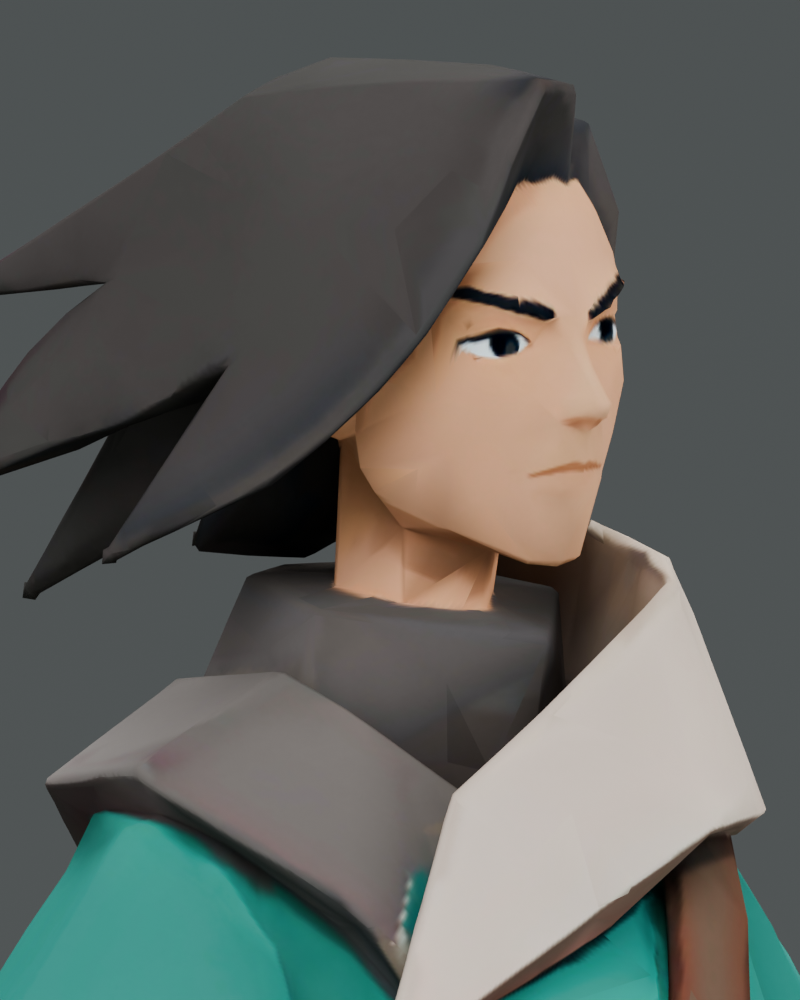
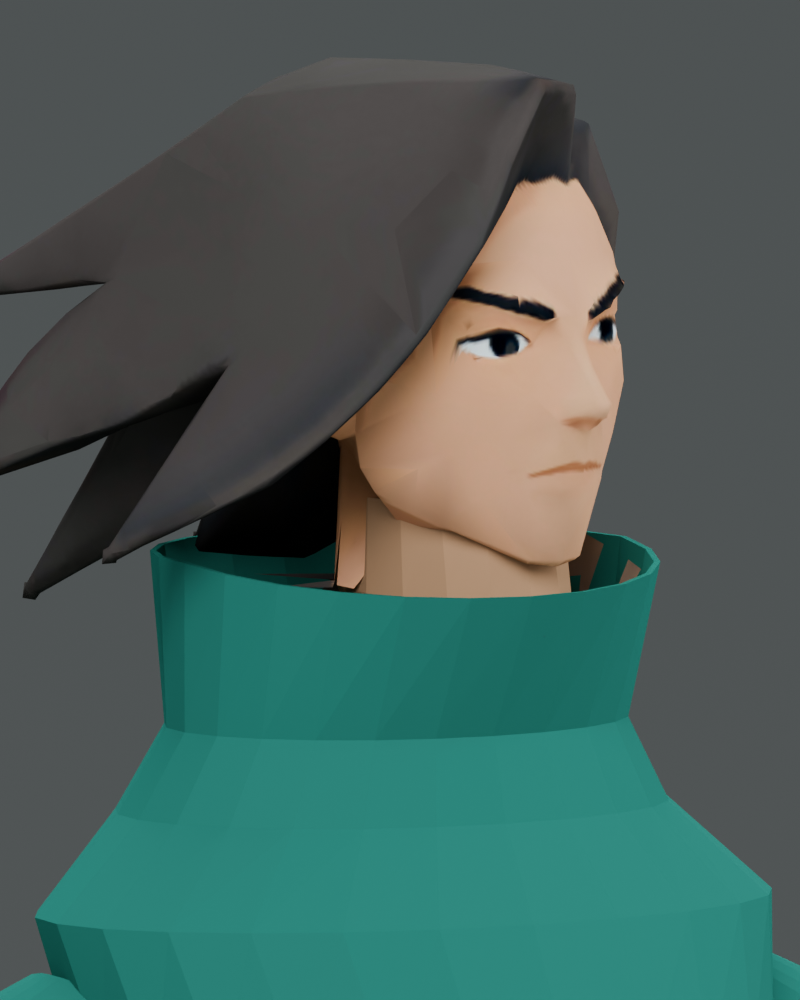
Simplify Miki to a high-collar dress and fix garment motion

diff --git a/blender/studies/miki-fullbody-fit/refresh-dress.py b/blender/studies/miki-fullbody-fit/refresh-dress.py
@@ -1,0 +1,112 @@
+"""Reusable, asset-local dress motion fitting; no changes to body Actions or canonical source."""
+import bpy,json,hashlib,sys
+from pathlib import Path
+from mathutils import Matrix,Vector
+sys.path.insert(0,str(Path(__file__).parent))
+from dress_clearance import clear_dress
+
+def evaluated(obj,selected_polygons):
+ e=obj.evaluated_get(bpy.context.evaluated_depsgraph_get());me=e.to_mesh();me.calc_loop_triangles();points=[e.matrix_world@v.co for v in me.vertices];triangles=[tuple(t.vertices)for t in me.loop_triangles if t.polygon_index in selected_polygons];e.to_mesh_clear();return points,triangles
+
+def refresh_coat(rig,coat,lining,colliders,clip_frames):
+ """Regenerate matching local KeyActions from unchanged body motion.
+
+ colliders is [(Object, polygon-index list)] of true pants/underlayers. Existing
+ core Actions/rest/meshes remain immutable. The clean dress is pelvis-rigid;
+ field corrections are source-bind-space deltas copied by outer_vertex_index.
+ """
+ assert len(rig.data.bones)==17 and rig.library is None,'Use the local seventeen-bone fitted study rig'
+ for obj in [coat,lining]:
+  assert obj.library is None and max(abs(obj.matrix_world[i][j]-(1. if i==j else 0.))for i in range(4)for j in range(4))<1e-6,'Refresh the source actor, not a transformed review instance'
+  assert all(len(v.groups)==1 and obj.vertex_groups[v.groups[0].group].name=='pelvis'and abs(v.groups[0].weight-1.)<1e-6 for v in obj.data.vertices),'The clean dress field assumes pelvis-rigid skin'
+ assert 'outer_vertex_index'in lining.data.attributes and all(0<=a.value<len(coat.data.vertices)for a in lining.data.attributes['outer_vertex_index'].data)
+ saved_basis={p.name:p.matrix_basis.copy()for p in rig.pose.bones};saved_pose=rig.data.pose_position;saved_mutes=[(t,t.mute)for t in rig.animation_data.nla_tracks]if rig.animation_data else[]
+ for track,mute in saved_mutes:track.mute=True
+ rig.data.pose_position='POSE'
+ scene=bpy.context.scene;saved_action=rig.animation_data.action if rig.animation_data else None;saved_slot=rig.animation_data.action_slot if rig.animation_data else None;saved_frame=scene.frame_current;saved_sub=scene.frame_subframe
+ rig.animation_data_create();rest=[v.co.copy()for v in coat.data.vertices];faces=[tuple(f.vertices)for f in coat.data.polygons]
+ for obj in [coat,lining]:obj.shape_key_clear();obj.shape_key_add(name='Basis')
+ for action in list(bpy.data.actions):
+  if action.name.startswith('miki.coat.corrective.')or action.name.startswith('miki.coat_lining.corrective.'):bpy.data.actions.remove(action)
+ fitted={};report={'method':'Clean open dress; fixed radial nonnegative field with face/edge/vertex constraints against retained pants and lean closed underlayers. No nearest normals or bag constraints.','clips':{},'key_action_map':{}}
+ for clip,frames in clip_frames.items():
+  action=bpy.data.actions['miki.fitted.'+clip];rig.animation_data.action=action;rig.animation_data.action_slot=action.slots[0];clip_offsets=[];rows=[]
+  for frame in frames:
+   scene.frame_set(int(frame),subframe=frame-int(frame));bpy.context.view_layer.update()
+   P=rig.matrix_world@rig.pose.bones['pelvis'].matrix@rig.data.bones['pelvis'].matrix_local.inverted();Pi=P.inverted();body_points=[];body_faces=[]
+   for obj,indices in colliders:
+    off=len(body_points);evaluated_points,evaluated_faces=evaluated(obj,set(indices));body_points.extend(Pi@p for p in evaluated_points);body_faces.extend([[v+off for v in face]for face in evaluated_faces])
+   points,offsets,stats=clear_dress(rest,faces,body_points,body_faces);clip_offsets.append([p-r for p,r in zip(points,rest)]);rows.append({'frame':frame,**stats})
+   print('DRESS_POSE',clip,frame,stats['max_offset_m'],len(stats['iterations']),flush=True)
+  # Positive envelope over adjacent dense samples; fixed directions make this conservative.
+  if len(frames)>10:
+   period=len(frames)-1
+   direction=[Vector((p.x,p.y-.025,0)).normalized()for p in rest]
+   magnitude=[[delta.dot(d)for delta,d in zip(row,direction)]for row in clip_offsets]
+   clip_offsets=[[direction[i]*max(magnitude[(j-1)%period][i],magnitude[j%period][i],magnitude[(j+1)%period][i])for i in range(len(rest))]for j in range(len(frames))]
+  fitted[clip]=[]
+  for index,(frame,deltas)in enumerate(zip(frames,clip_offsets)):
+   label=f'coat.{clip}.{index:03d}';outer=coat.shape_key_add(name=label);inner=lining.shape_key_add(name=label)
+   for i,p in enumerate(rest):outer.data[i].co=p+deltas[i]
+   for i,ref in enumerate(lining.data.attributes['outer_vertex_index'].data):inner.data[i].co=lining.data.shape_keys.key_blocks['Basis'].data[i].co+deltas[ref.value]
+   fitted[clip].append((frame,label))
+  report['clips'][clip]=rows
+ for clip,rows in fitted.items():
+  first,last=rows[0][0],rows[-1][0];keyframe={label:(j,frame)for j,(frame,label)in enumerate(rows)}
+  for obj in [coat,lining]:
+   kd=obj.data.shape_keys;kd.animation_data_create();action=bpy.data.actions.new(f'miki.{obj.get("semantic_part")}.corrective.{clip}');action.use_fake_user=True;kd.animation_data.action=action
+   for key in kd.key_blocks:
+    if key.name=='Basis':continue
+    if key.name in keyframe:
+     index,frame=keyframe[key.name];prev=rows[max(0,index-1)][0];nxt=rows[min(len(rows)-1,index+1)][0]
+     for time in sorted({first,prev,frame,nxt,last}):key.value=1. if time==frame else 0.;key.keyframe_insert('value',frame=time,group=clip)
+    else:
+     for time in [first,last]:key.value=0.;key.keyframe_insert('value',frame=time,group='Reset other clips')
+   for layer in action.layers:
+    for strip in layer.strips:
+     for bag in strip.channelbags:
+      for curve in bag.fcurves:
+       for key in curve.keyframe_points:key.interpolation='LINEAR'
+   report['key_action_map'].setdefault(clip,{})[obj.get('semantic_part')]=action.name
+   kd.animation_data.action=None;kd.use_fake_user=True
+   for key in kd.key_blocks:key.value=0.
+ rig.animation_data.action=saved_action
+ if saved_action and saved_slot:rig.animation_data.action_slot=saved_slot
+ for name,matrix in saved_basis.items():rig.pose.bones[name].matrix_basis=matrix
+ for track,mute in saved_mutes:track.mute=mute
+ rig.data.pose_position=saved_pose;scene.frame_set(saved_frame,subframe=saved_sub);bpy.context.view_layer.update()
+ return report
+
+def main():
+ """Regenerate only this unregistered study, never a canonical character/library."""
+ folder=Path(__file__).resolve().parent;expected=folder/'character/miki-fullbody-fit.blend'
+ if Path(bpy.data.filepath).resolve()!=expected:
+  raise ValueError('Open this study character source before refreshing the dress')
+ scene=bpy.context.scene;rigs=[o for o in scene.objects if o.type=='ARMATURE']
+ if len(rigs)!=1 or len(rigs[0].data.bones)!=17:raise ValueError('Expected one fitted 17-bone actor')
+ rig=rigs[0];shared=folder.parents[2]/'blender/animations/party.blend'
+ if rig.get('motion_source_sha256')!=hashlib.sha256(shared.read_bytes()).hexdigest():
+  raise ValueError('Shared body motion changed; refit and review body clips before regenerating dress motion')
+ parts={o.get('semantic_part'):o for o in scene.objects if o.type=='MESH'}
+ legs={'thigh.L','thigh.R','shin.L','shin.R','foot.L','foot.R'};colliders=[]
+ for role in ['body','upper_leggings']:
+  obj=parts[role];leg=[sum(g.weight for g in v.groups if obj.vertex_groups[g.group].name in legs)for v in obj.data.vertices]
+  indices=[f.index for f in obj.data.polygons if role=='upper_leggings' or sum(leg[i]for i in f.vertices)/len(f.vertices)>.5]
+  colliders.append((obj,indices))
+ frames={clip:list(range(1,int(bpy.data.actions['miki.fitted.'+clip].frame_range[1])+1))for clip in ['run','sneak','fire']}
+ report=refresh_coat(rig,parts['coat'],parts['coat_lining'],colliders,frames)
+ rig['garment_correctives']=json.dumps(report);rig.animation_data_clear()
+ for pb in rig.pose.bones:pb.matrix_basis=Matrix.Identity(4)
+ scene.frame_set(0)
+ bpy.context.preferences.filepaths.save_version=0
+ import sys
+ sys.path.insert(0, str(folder.parents[1] / 'extensions'))
+ from lauder_levels import forget_local_paths
+ for scene in bpy.data.scenes:
+     scene.render.filepath = ' ' * 1023
+     scene.render.filepath = '//'
+ forget_local_paths(expected)
+ bpy.ops.wm.save_as_mainfile(filepath=str(expected),relative_remap=False,compress=True)
+
+if __name__=='__main__':
+ main()

diff --git a/blender/studies/miki-fullbody-fit/dress_clearance.py b/blender/studies/miki-fullbody-fit/dress_clearance.py
@@ -1,0 +1,84 @@
+"""Directional authoring constraints for the clean dress, with no nearest-normal projection."""
+from mathutils import Vector
+from mathutils.bvhtree import BVHTree
+from mathutils.geometry import intersect_ray_tri
+SAMPLES=tuple((i/4,j/4,(4-i-j)/4)for i in range(5)for j in range(5-i))
+
+def smooth(a,b,x):
+ t=max(0.,min(1.,(x-a)/(b-a)));return t*t*(3-2*t)
+
+def barycentric(point,tri):
+ a,b,c=tri;v0=b-a;v1=c-a;v2=point-a;aa=v0.dot(v0);bb=v0.dot(v1);cc=v1.dot(v1);dd=v2.dot(v0);ee=v2.dot(v1);den=aa*cc-bb*bb
+ if abs(den)<1e-14:return None
+ v=(cc*dd-bb*ee)/den;w=(aa*ee-bb*dd)/den;return(1-v-w,v,w)
+
+def triangle_witnesses(cloth,body):
+ """Strict finite edge/triangle crossings, expressed on the garment triangle."""
+ points=[]
+ for edges,target in [(body,cloth),(cloth,body)]:
+  normal=(target[1]-target[0]).cross(target[2]-target[0]);length=normal.length
+  if length<1e-12:continue
+  normal/=length
+  for i,origin in enumerate(edges):
+   end=edges[(i+1)%3];ray=end-origin;length=ray.length
+   if length<1e-8:continue
+   d0=(origin-target[0]).dot(normal);d1=(end-target[0]).dot(normal)
+   if d0*d1>=0 or min(abs(d0),abs(d1))<1e-6:continue
+   direction=ray/length;hit=intersect_ray_tri(*target,direction,origin,True)
+   if hit is None or not 1e-6<(hit-origin).dot(direction)<length-1e-6:continue
+   bc=barycentric(hit,cloth)
+   if bc and min(bc)>-1e-6:points.append(bc)
+ return points
+
+def clear_dress(points,triangles,body_points,body_faces,margin=.010,iterations=8):
+ """Conservative fixed-outward offset with vertex, edge and face constraints.
+
+ Every source point retains its Z, its fixed pelvis-frame radial direction and
+ original radial separation. Local offsets spread coherently over the panel.
+ The top facing is an intentional dress/torso overlap; sample Z >= .98 is not
+ treated as a leg constraint. Returned points remain in pelvis/bind space.
+ """
+ assert all(len(f)==3 for f in triangles)and all(len(f)==3 for f in body_faces),'Pass actual evaluated triangles'
+ base=[Vector(p)for p in points];directions=[];masks=[]
+ for p in base:
+  d=Vector((p.x,p.y-.025,0));d.normalize();directions.append(d);masks.append(1-smooth(.97,1.04,p.z))
+ graph=[{}for p in base]
+ for face in triangles:
+  for a,b in zip(face,(face[1],face[2],face[0])):
+   length=(base[a]-base[b]).length;graph[a][b]=length;graph[b][a]=length
+ tree=BVHTree.FromPolygons([Vector(v)for v in body_points],body_faces)
+ offset=[0.]*len(base);history=[]
+ for step in range(iterations):
+  posed=[p+d*o for p,d,o in zip(base,directions,offset)];wanted=offset[:];max_need=0.;constraints=0
+  garment_tree=BVHTree.FromPolygons(posed,triangles,all_triangles=True);extra={};witness_pairs=0
+  for ci,bi in garment_tree.overlap(tree):
+   cloth=[posed[i]for i in triangles[ci]];body=[Vector(body_points[i])for i in body_faces[bi]];witness=triangle_witnesses(cloth,body)
+   if witness:extra.setdefault(ci,[]).extend(witness);witness_pairs+=1
+  for fi,face in enumerate(triangles):
+   samples=list(SAMPLES)+extra.get(fi,[])
+   for sample_index,weights in enumerate(samples):
+    p=sum((posed[i]*w for i,w in zip(face,weights)),Vector())
+    if p.z>=.98:continue
+    d=sum((directions[i]*w for i,w in zip(face,weights)),Vector());d.normalize()
+    denom=sum(w*masks[i]*directions[i].dot(d)for i,w in zip(face,weights))
+    if denom<.05:continue
+    # Four millimetres of directional footprint expansion protects unsampled skin facets.
+    side=Vector((-d.y,d.x,0));need=0.
+    for sx,sz in [(0,0),(-.004,0),(.004,0),(0,-.004),(0,.004)]:
+     q=p+side*sx+Vector((0,0,sz));hit,normal,idx,distance=tree.ray_cast(q+d*2.,-d,4.)
+     if hit is not None:need=max(need,(hit-q).dot(d)+margin)
+    if sample_index>=len(SAMPLES):need=max(need,.005)
+    if need<=.00025:continue
+    constraints+=1;max_need=max(max_need,need)
+    for i in face:wanted[i]=max(wanted[i],offset[i]+need/denom*masks[i])
+  # A shared Lipschitz offset rounds the skirt coherently instead of moving isolated points.
+  for spread in range(5):
+   expanded=wanted[:]
+   for i,neighbours in enumerate(graph):
+    if masks[i]<.001:continue
+    expanded[i]=max(wanted[i],max((wanted[j]-.8*l for j,l in neighbours.items()),default=0.)*masks[i])
+   wanted=expanded
+  offset=wanted;history.append({'iteration':step,'constraint_count':constraints,'max_required_m':max_need,'max_offset_m':max(offset),'strict_witness_pairs':witness_pairs})
+  if max_need<.0005 and witness_pairs==0:break
+ result=[p+d*o for p,d,o in zip(base,directions,offset)]
+ return result,offset,{'iterations':history,'max_offset_m':max(offset),'fixed_direction':True,'waist_overlap_z':.98,'margin_m':margin}

diff --git a/blender/studies/miki-fullbody-fit/refresh-motions.py b/blender/studies/miki-fullbody-fit/refresh-motions.py
@@ -243,7 +243,14 @@ def main():
         pb.scale = (1, 1, 1)
     bpy.context.scene.frame_set(0)
     bpy.data.orphans_purge(do_recursive=True)
-    bpy.ops.wm.save_as_mainfile(filepath=str(expected), relative_remap=False)
+    import sys
+    sys.path.insert(0, str(folder.parents[1] / 'extensions'))
+    from lauder_levels import forget_local_paths
+    for scene in bpy.data.scenes:
+        scene.render.filepath = ' ' * 1023
+        scene.render.filepath = '//'
+    forget_local_paths(expected)
+    bpy.ops.wm.save_as_mainfile(filepath=str(expected), relative_remap=False, compress=True)
 
 if __name__ == '__main__':
     main()

diff --git a/blender/studies/miki-fullbody-fit/README.md b/blender/studies/miki-fullbody-fit/README.md
@@ -1,85 +1,72 @@
-# Miki full-body fitting study
+# Miki simple dress and motion study
 
-**Work-in-progress motion review, 25 November 2026.** The maintainer accepted the coherent full-body approach as Miki's working visual base and assigned simplification, detail refinement and reuse of the existing skeleton and animations. This separate authoring study awaits final motion/appearance review. Canonical characters, shared motion, gameplay and app resources remain unchanged.
-
-
+**Updated authoring review, 25 November 2026.** The maintainer asked: “I think we should simplify and remove the side bag and the belts so only have the dress with a high colar.” This candidate follows that direction with a simple teal dress and integral standing collar. The bag, crossbody/waist belts, rear strap and folded scarf are removed from the current outfit. Original references, raw assets and history remain preserved. Canonical characters, shared motion, gameplay and app resources are unchanged.
 
 ## Review in Blender
 
-Open [miki-fullbody-fit-review.blend](miki-fullbody-fit-review.blend), keeping `character` beside it and the existing [Precision rifle source](../equipment/rifle-precision/README.md). Relative libraries supply both assets. **01 Run Sneak Shoot** presents the motion sequence; **02 Rest and details** supplies static inspection. The review has five orthographic body views, a face camera and a motion camera. The editable source is [character/miki-fullbody-fit.blend](character/miki-fullbody-fit.blend), collection `miki-fullbody-fit`.
+Open [miki-fullbody-fit-review.blend](miki-fullbody-fit-review.blend) with `character` beside it. Its animated and static scenes use **one relative character library only**: the editable [character/miki-fullbody-fit.blend](character/miki-fullbody-fit.blend), collection `miki-fullbody-fit`. No equipment is displayed or linked into this review.
 
-![Actual native Blender view](three-quarter.png)
+![Native Blender three-quarter view](three-quarter.png)
 
-[Front](front.png) · [Back](back.png) · [Face](face.png)
+[Front](front.png) · [Back](back.png) · [Face](face.png) · [Motion reel](motion-preview.mp4)
 
-The images and [motion reel](motion-preview.mp4) are native Blender renders of the saved candidate, with no AI image replacement or retouching. The earlier [Tripo review](../miki-fullbody-tripo/README.md) remains an unchanged comparison. The editorial sequence uses 120 fps:
+The images and reel are native Blender renders of the frozen candidate, not AI replacements or retouched previews. The animated scene presents two editorial takes at 120 fps; the other scene remains independently unposed for inspection.
 
-| Take | Frames | Repetitions |
+| Take | Source timeline | Repetitions |
 | --- | --- | ---: |
 | Run | 1–312 | 4 |
 | Sneak | 313–744 | 3 |
-| Fire | 745–1104 | 5 |
 
-The sequence lasts **9.2 seconds**. The 960 × 900 H.264 reel encodes 276 native frames at 30 fps, sampling every fourth source frame. Editorial cuts separate the clips; this does not demonstrate gameplay blending.
+The **6.2-second**, **960 × 900** H.264 reel contains **186 frames at 30 fps**, sampling every fourth source frame. These editorial cuts demonstrate the selected clips, not gameplay transitions. All eleven fitted body clips remain in the authoring source; Fire is not displayed in this review.
 
-## Geometry, colour and equipment
+## Outfit, geometry and colour
 
-A UV-preserving reduction takes the [1,931,766-triangle Tripo draft](../miki-fullbody-tripo/README.md#source-and-settings) to a **12,000-triangle core** with 5,998 unique source vertices. Semantic splitting duplicates seam vertices across objects. The saved candidate totals **8,103 vertices / 14,846 triangles**, including the auxiliary pieces below; garment correctives preserve topology. The topology is a simplified triangulated generator mesh; dedicated deformation retopology and iPhone performance are unestablished.
+The accepted [Tripo full-body base](../miki-fullbody-tripo/README.md) began at 1,931,766 triangles and was reduced to a UV-preserving 12,000-triangle core. This outfit revision deliberately replaces obsolete clothing surfaces with clean native topology; the retained original surface and the new clothing are recorded separately. The lower dress is a clean open wrap with a practical high-low front hem and a longer side/back tail. It is not the old fused coat/leg-return mesh.
 
-The bounded detail pass changes **159 source vertices**, at most approximately **1.992 mm**, around the jaw/mouth/adjacent neck. All semantic copies of an edited source vertex receive its same delta. The accepted swept-hair silhouette remains. Darker irises and the **558-vertex glove palette region** are baked through native Blender emission into one [1,024² base-colour atlas](character/textures/miki-basecolour-1k.png). UV-bearing parts share a simple matte material; auxiliary pieces use plain colours. The gloves retain their original thumb gaps and fused-finger topology, with no finger articulation. Normal and roughness/metallic maps are removed from this derivative.
+The upper dress joins a tailored bodice directly into a hollow high collar, with no raised belt ring. A small neck infill fills the source void formerly hidden by the scarf; two clean sleeve roots join the retained lower sleeves. The waist overlaps the lower dress internally. The formerly hidden hip bridge and jagged closure fans are retired. One connected matte-charcoal upper-leggings surface joins the retained pants at 61 exact seam points around 0.62 m; boots and lower legs remain.
 
-| Additional piece | Vertices | Triangles |
+| New upper component | Vertices | Triangles |
 | --- | ---: | ---: |
-| Bounded coat inner shell | 1,094 | 2,009 |
-| Hidden cut-boundary caps | 183 | 177 |
-| Hidden hip/thigh bridge | 142 | 272 |
-| Rear shoulder strap | 196 | 388 |
+| Bodice and integral high collar | 264 | 480 |
+| Neck continuity infill | 48 | 92 |
+| Clean sleeve roots | 165 | 271 |
+| Continuous visible upper leggings | 517 | 1,030 |
 
-The closed caps seal seven original cut cycles. The hip/thigh bridge uses closed overlapping opaque lofts beneath the coat, with narrower hidden lower overlaps inside the retained pants. The back strap continues the satchel's front strap. These additions have their own provenance; their source IDs are distinct from original visible faces.
+Retained face/hair, glove, boot and pants vertices keep their source positions, weights and UVs. **62 neutral-cream scarf triangles previously classified into the head object are removed**; this is clothing cleanup, so the entire old head topology is not claimed unchanged. No jaw, face or hair redesign accompanies this revision. Retained pants receive a uniform charcoal material, with their UVs preserved. The gloves keep their fused-finger topology, without finger articulation.
 
-The **280-triangle Precision rifle stays independent and linked**. The review owns carry/hold transforms; neither rifle nor tablet is part of the character mesh. Fire is a fitted low-ready review, with scoped aiming, draw/stow transitions and runtime weapon attachment remaining separate work.
+One new **1,024² base-colour atlas** is baked natively from the cleaned body and head together, retaining their original UV charts and face/hair colours. Plain matte materials cover the new dress, closures and neck infill. No normal or roughness/metallic maps are required. Source images are not overwritten. Equipment remains independent: the [Precision rifle study](../equipment/rifle-precision/README.md) and other equipment are unchanged and excluded from these two takes.
 
-## Shared skeleton, derived motion and garment correctives
+**Frozen actor totals:** 4,669 vertices / 8,821 triangles, across eight meshes, including lining and visible leggings. This remains simplified generator topology plus bounded native clothing work, not production deformation retopology or an established iPhone budget.
 
-The study keeps **17 fitted body bones**, preserving shared names and hierarchy while adapting rest positions to Miki's proportions. The canonical [skeleton and eleven `party.*` Actions](../../animations/README.md) remain immutable. Eleven local `miki.fitted.*` body Actions regenerate from them through rest-space rotation mapping, sole-contact correction and fitted palm targets; the source opens unposed at frame 0 and preserves those reusable Actions.
+## Shared skeleton, motion and regeneration
 
-The garment uses **83 corrective shape keys per part plus Basis**: 27 Run, 49 Sneak and seven Fire samples. Six local Key Actions pair the three clips with the outer coat and its lining. The experimental 18-bone pilot was rejected; it is not included. The animated review owns local mesh/Key-data copies and matching body/corrective NLA tracks; the static review owns its rest configuration. All channels are explicit, including zero values for other clips, to prevent stale shapes when switching Actions. Shared-source changes require reauthoring/rechecking the correctives; the helper checks the shared source SHA before a refresh so a body refresh cannot silently invalidate them.
+The actor keeps **17 fitted body bones** with the existing names and hierarchy. The canonical [shared skeleton and eleven `party.*` Actions](../../animations/README.md) remain immutable. The eleven local `miki.fitted.*` Actions preserve the fitted rest-space mapping, sole-contact correction and palm-target work; outfit cleanup changes none of those body curves. The source opens unposed at frame 0.
 
-[refresh-motions.py](refresh-motions.py) exposes `refresh_target(rig, body_objects, source_library, fit)` and a CLI entry point restricted to this exact study source. Its fit metadata and source signature preserve lineage. From the repository root, the public helper is invoked with Blender:
+[refresh-motions.py](refresh-motions.py) refreshes only this study’s derived body motion and rejects a mismatched shared-source fingerprint. [refresh-dress.py](refresh-dress.py), using [dress_clearance.py](dress_clearance.py), regenerates this study’s coherent garment deformation from its frozen rest garment and fitted motion. Its inputs are the saved rest topology, skin weights/modes and fitted body clips. A change to any of those inputs invalidates prior garment samples and requires regeneration and native review; old independent coat correctives must not be reused silently.
 
-```sh
-/Applications/Blender.app/Contents/MacOS/Blender --background --factory-startup -Y \
-  blender/studies/miki-fullbody-fit/character/miki-fullbody-fit.blend \
-  --python-exit-code 1 --python blender/studies/miki-fullbody-fit/refresh-motions.py
-```
+The animated review owns local evaluated garment/Key data paired with its body motion; the static scene owns its rest configuration. Refreshing the authoring source requires rebuilding and rechecking the linked review and rendered reel. Neither helper saves the canonical party source. A full 297-frame regeneration reproduces 26 evaluated outer/lining pose samples exactly and leaves the eleven body curves and saved source unchanged. Both helpers reject a mismatched shared-motion fingerprint. A separate body refresh reproduces 33 sampled poses across all eleven clips exactly.
 
-The helper updates only this study's derived motion and saves that study source. The linked review and garment pairing need rebuilding/verification after a valid refresh; canonical files are not saved.
+## Verification and remaining gates
 
-## Verification and limits
+Fresh native loads must resolve the single relative library and atlas, preserve the 17-bone/eleven-body-Action contract, and keep normalized skin weights with no more than four influences per vertex. Source-ID comparisons establish that retained body/head positions, weights and UVs are unchanged; they do not imply preservation of retired wardrobe faces. Review clones must bind every new component to their own copy of the same rig, including the head-bound neck infill. Follow the [repository validation and storage rules](../../../CONTRIBUTING.md#validation).
 
-The final candidate is checked through fresh native loads, resolving relative libraries/atlas, normalized skin weights, the 17-bone/eleven-body-Action contract, six matching Key Actions, exact core-motion preservation and source-bound renders. Follow [repository validation/storage rules](../../../CONTRIBUTING.md#validation).
+**Frozen validation:** all 62 existing Blender/export tests pass; fresh native inspection verifies 17 fitted bones, eleven unchanged body Actions, normalized weights with at most three influences and no unweighted vertices. The final 591-pose check at 240 Hz covers Run 157, Sneak 289 and Fire 145 poses; all geometry is finite/nondegenerate, foreign-clip keys stay zero, active keys sum to one and loop endpoints match exactly. All 61 pants joins and 55 sleeve joins remain exact. Native rest/front/back/face views and worst-fold/stride poses were inspected on the assembled snapshot. The full two-take sequence was rendered, decoded and opened in Blender for playback. No strict outer or lining triangle crossings were detected against retained legs and the entire actual upper-leggings surface across those 591 poses. The garment gate covers free panels with rest face-centroid Z below 0.98 m; the intentional upper waist attachment band is excluded. Minimum lining-to-floor clearance is 33.89 mm. This does not certify continuous-time/global self-collision or every motion. An angular trailing-tail fold and small Boolean sliver triangles remain; production retopology and runtime intake are unverified. Earlier 591-pose or underbody checks belong to their recorded snapshots and do not automatically validate this new dress.
 
-All **62 existing Blender/export tests pass**, including compressed-file path hygiene. A read-only refresh reproduces 33 sampled body poses across all eleven Actions exactly, restores the previous pose/frame, leaves the saved character unchanged and rejects a mismatched source fingerprint before reusing garment correctives. The encoded reel fully decodes with 276 frames at 30 fps.
-
-Independent scratch-file inspection confirms the final 17-bone rest rig and eleven body Actions match the fitted basis, all 12,000 original surface faces and declared detail edits are preserved, and **591 skinned Run/Sneak/Fire poses** stay finite with at most four normalized weights per vertex. Fourteen source-to-review comparisons, including the reported worst midpoints, match evaluated body and corrective geometry exactly. The animated and static actors own independent Key data; the static actor remains unposed. Both relative libraries and the external atlas resolve. These checks verify playback and lineage, not clean clothing contact.
-
-Bounded auxiliary checks passed: original underbody plus caps has zero boundary/nonmanifold edges, winding conflicts or degenerate faces after a 1 µm weld; cap seam positions/weights are exact. The hip bridge's 822 rest samples stayed inside the accepted surface with at least 4.24 mm sampled clearance. Its **591 Run/Sneak/Fire poses at 240 Hz** passed **14,184 overlap-anchor tests** with finite, nondegenerate geometry and positive component volumes. A semantic colour-bake test matched all tested covered texels of the equivalent single-mesh bake; variation was confined to padding.
-
-**Unresolved visual defect:** the coat still contacts the legs, has a ragged inner edge in some moving poses and visibly pokes through the front of the satchel in part of Run. The corrective sampling/midpoint audit measures up to approximately **36.94 mm** Run and **36.09 mm** Sneak point penetration; selected corrected samples are substantially better, so three attractive stills do not establish a clean loop. This is a review draft, not completed garment deformation. The next art task is coherent garment topology/weight cleanup before promoting it to the game. These local checks establish no collision-free clothing guarantee, final appearance, all-clip deformation approval, runtime intake or phone performance. This study includes no Swift changes, app/Simulator/phone run, canonical replacement, merge or release.
+**Remaining gate:** final visual review and bounded deformation acceptance, then a separately assigned runtime intake. No collision-free clothing guarantee, final appearance approval, all-clip garment approval or iPhone-performance claim follows from this authoring study. It includes no app/Simulator/phone run, canonical replacement, merge or release.
 
 ## Saved review files
 
 | File | Bytes | SHA-256 |
 | --- | ---: | --- |
[8 lines of base64/hex data omitted]
 
-Hashes bind this revision’s native files and encoded media. New renders are needed after any geometry, motion or material change.
+These values bind the exact saved files and encoded media after the final freeze. Any geometry, material, motion or helper change requires refreshed evidence.
 
 ## Provenance and licence
 
[2 lines of base64/hex data omitted]
 
-The mesh/atlas retain the [source's paid-output provenance and applicable Tripo terms](../miki-fullbody-tripo/README.md#provenance-and-licence), separately from the earlier free head trial. Do not automatically relabel the underlying generator output as exclusively owned MIT material. Original Lauder motion, rifle, added geometry, fitting/review work, helper and documentation use the project's [MIT licence](../../../LICENSE), subject to recorded underlying rights and without an exclusive-rights claim over AI output. Native processing is agent-assisted; no human sculpting is claimed.
+The retained generator mesh and atlas keep their [paid-output provenance and applicable Tripo terms](../miki-fullbody-tripo/README.md#provenance-and-licence), separately from the earlier free head trial. Original Lauder motion, equipment, added geometry, fitting/review work, helpers and documentation use the project’s [MIT licence](../../../LICENSE), subject to recorded underlying rights and without an exclusive-rights claim over AI output. Native processing is agent-assisted; no human sculpting is claimed.

diff --git a/docs/prototype-plan.md b/docs/prototype-plan.md
@@ -118,11 +118,11 @@ This deliverable is static: no armature, skin weights, animation fitting or runt
 
 The [pilot input record](../art/characters/angular-study/miki-head-pilot/README.md) distinguishes the single hero from imperfect supporting illustrations. Following the maintainer's Pro signup, the existing free P2.0 job was exported without regeneration and inspected in Blender. The [native comparison](../blender/studies/miki-head-pilot/README.md#native-generator-comparison) now uses matched cameras, lighting and a documented uniform crown-to-chin scale against the linked CC0 controls. Its actual 4,899 vertices / 5,401 polygons include four dense eye parts and localized shell defects. The maintainer subsequently assigned the [local cleanup](../blender/studies/miki-head-cleanup/README.md): repaired shell, shallow paired eyes and fitted brows, with matched native renders awaiting appearance review. The maintainer then asked to proceed with [separate swept hair](../blender/studies/miki-hair/README.md) on that unchanged head. Its native angles, reference comparison, unchanged body/collar context and Camera B projection form the next unrigged appearance review. The [trial record](../blender/studies/miki-head-pilot/tripo-trial.md) retains native findings and free-output provenance. Native review does not establish final appearance, animation readiness or runtime performance. Body, skeleton and shared-animation fitting remain later work; canonical characters, motions, app resources, engine, gameplay and runtime budgets are unchanged.
 
-### Miki reduced full-body and motion review
+### Miki high-collar dress and motion review
 
-The maintainer accepted the full-body working base and then assigned simplification, detail refinement and fitting of the existing skeleton and animations. The [new authoring study](../blender/studies/miki-fullbody-fit/README.md) contains a reduced character, one native 1K base-colour bake, fitted shared body joints and eleven traceable derived Actions. Its separate review scene demonstrates Run, Sneak and Fire with a separate precision rifle. Hidden underbody caps and hip/thigh surfaces repair gaps in the generated clothing/body construction; a rear strap completes the satchel silhouette.
+The maintainer accepted the full-body working base, assigned garment clipping correction and then requested a simpler outfit: **“remove the side bag and the belts so only have the dress with a high colar”**. The [revised authoring study](../blender/studies/miki-fullbody-fit/README.md) removes that gear and the folded scarf, builds a continuous high-collared teal dress with clean lower panels and a functional movement opening, and retains the asymmetric hem. It also replaces obsolete wardrobe fragments and closes the newly exposed neck, sleeve and leggings joins needed for the simplified outfit. Original art/imports and licensing remain preserved; no new generation or purchase is included.
 
-This is a deformation and appearance review, with remaining long-coat contact limitations documented in the study. It does not approve final appeal, all clip transitions, runtime topology/material intake or phone performance. The shared source motion, canonical characters, level and app exports remain unchanged. Do not advance Laura/Tom or replace the game character until the Miki review is accepted. No game build, integration, merge or release is included.
+The separate native review shows Run and Sneak with no displayed equipment. The shared 17-bone source and eleven source Actions remain authoritative and unchanged; local fitted clips and garment corrections are traced in the study. The source retains its eleven reusable body clips. Final appearance, runtime intake, other motion/transition fitting and phone performance remain separate work. Do not replace canonical Miki or advance Laura/Tom until the current visual review is accepted. No app build, game integration, merge or release is assigned by this art task.
 
 ### Miki full-body generator trial
 

diff --git a/README.md b/README.md
@@ -32,7 +32,7 @@ The latest TestFlight delivery is the bridge-only prototype with the Blender env
 
 **Current head and hair study:** The maintainer assigned separate swept hair using the cleaned head as the working base. The [new native review](blender/studies/miki-hair/README.md) shows front/profile/three-quarter/back views, an approved-reference comparison, existing collar/body context and the uncropped Camera B projection. The [head cleanup](blender/studies/miki-head-cleanup/README.md), original Tripo/CC0 comparison, FBX, approved art and source provenance remain unchanged. Appearance review precedes body, skeleton and shared-animation fitting. Canonical models, gameplay, Laura and Tom remain unchanged; no installation, merge or release is included.
 
-**Miki full-body fitting, 25 November 2026:** The maintainer selected the full-body route and assigned refinement and fitted animation review. The new [reduced Miki study](blender/studies/miki-fullbody-fit/README.md) preserves the accepted silhouette and satchel, refines face/colour details, adds hidden garment anatomy and a rear strap, and adapts the existing shared motion library to the new proportions. Running, sneaking and shooting are authoring previews; garment deformation still needs visual review. The rifle stays separate. Canonical models, shared source animations and the playable game remain unchanged.
+**Miki high-collar dress, 25 November 2026:** During the assigned garment-clipping cleanup, the maintainer chose a simpler outfit: a teal dress with a high collar, without the side bag, shoulder straps or waist belts. The [revised native study](blender/studies/miki-fullbody-fit/README.md) rebuilds the outfit as clean upper/lower dress surfaces, retains the asymmetric hem and presents running and sneaking for visual review. The face/hair and shared motion source are retained; equipment remains independent. This is an authoring review, with no canonical game replacement or release.
 
 **Miki full-body trial, 25 November 2026:** After rejecting the previous body/motion fit, the maintainer assigned a coherent [full-body Tripo draft](blender/studies/miki-fullbody-tripo/README.md), reviewed statically before another rigging pass, and requested a recognisable side bag. The [new single-figure input](art/characters/angular-study/miki-fullbody-input/README.md) uses a closed brown field satchel. The native colour/clay review and five views are prepared; appearance is pending. The dense draft is reference material, with no rig or game integration. The previous motion experiment remains held; original assets and shared clips remain unchanged.
 

diff --git a/docs/visual-direction.md b/docs/visual-direction.md
@@ -6,7 +6,7 @@
 
 **Head and hair study:** The assigned [separate swept-hair study](../blender/studies/miki-hair/README.md) uses the [cleaned Tripo-derived head](../blender/studies/miki-head-cleanup/README.md) as its unchanged working base. Native head angles, reference/collar comparisons and the actual Camera B projection await visual review before body or shared-skeleton fitting. The original Tripo/CC0 comparison, raw export and approved art remain unchanged. This does not approve a final character or runtime budget.
 
-**Miki reduced full-body review, 25 November 2026:** Following the maintainer’s selection of the full-body route, the [fitted derivative](../blender/studies/miki-fullbody-fit/README.md) preserves the approved working silhouette while reducing density, refining bounded face/iris/glove details, completing a rear strap and fitting shared body motion. The native Run/Sneak/Fire review exposes garment deformation for assessment; it is not final art acceptance or a runtime replacement. Rifle and tablet remain separate equipment.
+**Miki simple dress direction, 25 November 2026:** While assigning the garment-clipping correction, the maintainer requested removing the side bag and all belts so Miki wears a simple high-collared dress. The [current full-body derivative](../blender/studies/miki-fullbody-fit/README.md) uses a continuous teal bodice/standing collar, clean asymmetric lower panels and a functional movement opening. Bag, shoulder/rear straps, waist belt and folded scarf are absent from this outfit. Earlier source art and generated imports remain historical references. Running/sneaking and appearance await visual review; no runtime replacement, new equipment system or phone-performance claim is implied.
 
 **Miki full-body reset, 25 November 2026:** The maintainer rejected the assembled body/motion appearance and assigned a [coherent full-body Tripo draft](../blender/studies/miki-fullbody-tripo/README.md) for static review before rigging. The additional bag correction replaces the open-frame holder with a compact closed brown satchel in the [new generator input](../art/characters/angular-study/miki-fullbody-input/README.md); historical illustrations remain unchanged. The prepared colour/clay views establish a review candidate, not an accepted final mesh. The dense imported surface still needs deliberate low-poly construction if selected. Face, hair, fingers and rear garment/strap details remain review issues. The rifle/tablet stay separate; the existing game and shared motions are unchanged.
 

diff --git a/art/README.md b/art/README.md
@@ -15,7 +15,7 @@ The [visual direction](../docs/visual-direction.md) remains the source of agreed
 
 The current [Miki head-only pilot](characters/angular-study/miki-head-pilot/README.md) supplies bald image-to-3D inputs for the [native Blender comparison](../blender/studies/miki-head-pilot/README.md#native-generator-comparison). Its illustrations remain separate from actual mesh renders and the approved source art. The assigned [native feature cleanup](../blender/studies/miki-head-cleanup/README.md) is preserved as the working base for a [separate swept-hair study](../blender/studies/miki-hair/README.md), with actual Blender views and the approved illustration clearly distinguished. Body and rig fitting follow visual review.
 
-The maintainer subsequently selected the full-body route and assigned a [reduced, fitted Miki derivative](../blender/studies/miki-fullbody-fit/README.md), with native static and motion review. This continues the same generated source and preserves its provenance; no additional generation was purchased. Appearance and garment deformation remain review gates before any game integration.
+The maintainer selected the full-body route and later simplified the [current native Miki derivative](../blender/studies/miki-fullbody-fit/README.md) to a high-collared teal dress, removing the bag and shoulder/waist belts while correcting garment motion. This is a new Blender outfit revision, with no additional AI generation or purchase. Historical illustrations, imports and their provenance remain preserved. The current review focuses on the clean outfit running and sneaking; appearance acceptance and game integration remain separate gates.
 
 The later [full-body input](characters/angular-study/miki-fullbody-input/README.md) and [native Tripo draft](../blender/studies/miki-fullbody-tripo/README.md) follow rejection of the assembled motion-fit appearance. The maintainer requested a recognisable side bag; the new derivative uses a closed brown field satchel. These colour/clay views are static review material, with the original illustrations and prior sources preserved and no rig or game integration.
 
